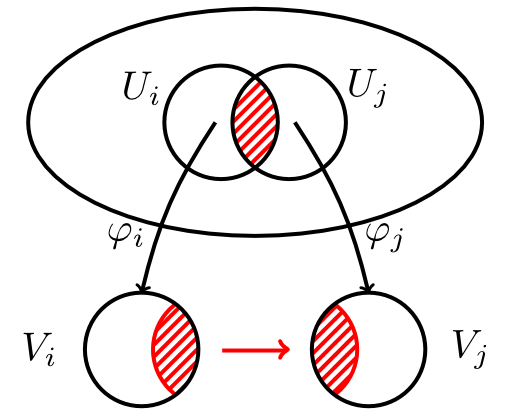
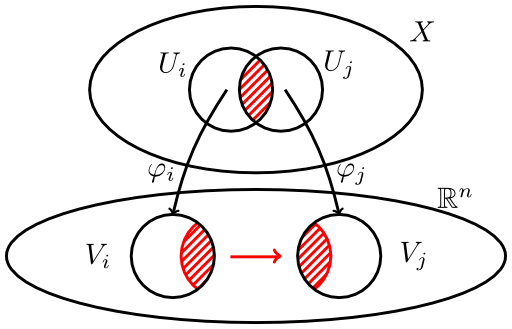
misc

diff --git a/documents/math-fonts/math-fonts.tex b/documents/math-fonts/math-fonts.tex
@@ -1,0 +1,55 @@
+\documentclass{scrartcl}
+\usepackage{amssymb, amsmath} % needed for math
+\usepackage[utf8]{inputenc} % this is needed for umlauts
+\usepackage[ngerman]{babel} % this is needed for umlauts
+\usepackage[T1]{fontenc}    % this is needed for correct output of umlauts in pdf
+\usepackage[margin=2.5cm]{geometry} %layout
+\usepackage{hyperref}   % links im text
+\usepackage{parskip}
+\usepackage{multicol}
+
+\title{Minimal distance to a cubic function}
+\author{Martin Thoma}
+
+\hypersetup{ 
+  pdfauthor   = {Martin Thoma}, 
+  pdfkeywords = {}, 
+  pdftitle    = {} 
+} 
+
+%%%%%%%%%%%%%%%%%%%%%%%%%%%%%%%%%%%%%%%%%%%%%%%%%%%%%%%%%%%%%%%%%%%%%
+% Begin document                                                    %
+%%%%%%%%%%%%%%%%%%%%%%%%%%%%%%%%%%%%%%%%%%%%%%%%%%%%%%%%%%%%%%%%%%%%%
+\begin{document}
+\section{mathcal}
+\begin{multicols}{3}
+\begin{itemize}
+    \item $\mathcal{A}$
+    \item $\mathcal{B}$
+    \item $\mathcal{C}$
+    \item $\mathcal{D}$
+    \item $\mathcal{E}$
+    \item $\mathcal{F}$
+    \item $\mathcal{G}$
+    \item $\mathcal{H}$
+    \item $\mathcal{I}$
+    \item $\mathcal{J}$
+    \item $\mathcal{K}$
+    \item $\mathcal{L}$
+    \item $\mathcal{M}$
+    \item $\mathcal{N}$
+    \item $\mathcal{O}$
+    \item $\mathcal{P}$
+    \item $\mathcal{Q}$
+    \item $\mathcal{R}$
+    \item $\mathcal{S}$
+    \item $\mathcal{T}$
+    \item $\mathcal{U}$
+    \item $\mathcal{V}$
+    \item $\mathcal{W}$
+    \item $\mathcal{X}$
+    \item $\mathcal{Y}$
+    \item $\mathcal{Z}$
+\end{itemize}
+\end{multicols}
+\end{document}

diff --git a/tikz/topology-continuous-mapping/topology-continuous-mapping.tex b/tikz/topology-continuous-mapping/topology-continuous-mapping.tex
@@ -24,12 +24,15 @@
         \draw (\x,0.1) -- (\x,-0.1) node [below] {\x};
 
 
-    \draw[red] (0.07,0.1) -- (0,0.1) -- (0,-0.1) -- (0.07,-0.1) node [below] {};
-    \draw[red] plot [smooth] coordinates{(0.47,0.1) (0.5,0) (0.47,-0.1)};
+    \draw[thick,red] (0.07,0.1) -- (0,0.1) -- (0,-0.1) -- (0.07,-0.1) node [below] {};
+    \draw[thick,red] plot [smooth] coordinates{(0.47,0.1) (0.5,0) (0.47,-0.1)};
+    \draw[thick,red] (0,0) -- (0.5,0);
+    \draw[dotted,red] (0,-0.03) -- (0.5,-0.03);
 
     \begin{scope}[shift={(4,0)}]
         \draw[thick] (0cm,0cm) circle(1cm);
         \draw[thick, red] ([shift={(180:1cm)}]-0.0,0) arc (180:0:1cm);
+        \draw[red, dotted] ([shift={(180:0.97cm)}]-0.0,0) arc (180:0:0.97cm);
         \draw (0:1cm) node[point, label=right:{$0$}] {};
     \end{scope}
 

diff --git a/tikz/topology-kartenwechsel/topology-kartenwechsel.tex b/tikz/topology-kartenwechsel/topology-kartenwechsel.tex
@@ -1,4 +1,5 @@
 \documentclass[varwidth=true, border=2pt]{standalone}
+\usepackage{amsmath,amssymb}% math symbols / fonts
 \usepackage{tikz}
 \usepackage{tqft}
 \usetikzlibrary{patterns}
@@ -6,6 +7,7 @@
 \begin{document}
     \begin{tikzpicture}[tqft/flow=east]
         \draw (0,0) ellipse (2cm and 1cm);
+        \draw (0,-2) ellipse (3cm and 0.8cm);
         \def\ringa{(-0.3,0) circle (0.5cm)}
         \def\ringb{(+0.3,0) circle (0.5cm)}
 
@@ -30,6 +32,8 @@
         \node at (+1,0.3) {$U_j$};
         \node at (-1.9,-2) {$V_i$};
         \node at (+1.9,-2) {$V_j$};
+        \node at (+2.0,0.7) {$X$};
+        \node at (+2.4,-1.3) {$\mathbb{R}^n$};
 
 
         \path[->] (-0.35,0)  edge [bend angle=10,bend right] node[label={[label distance=0.1cm]210:$\varphi_i$}] {} (-1,-1.5);
